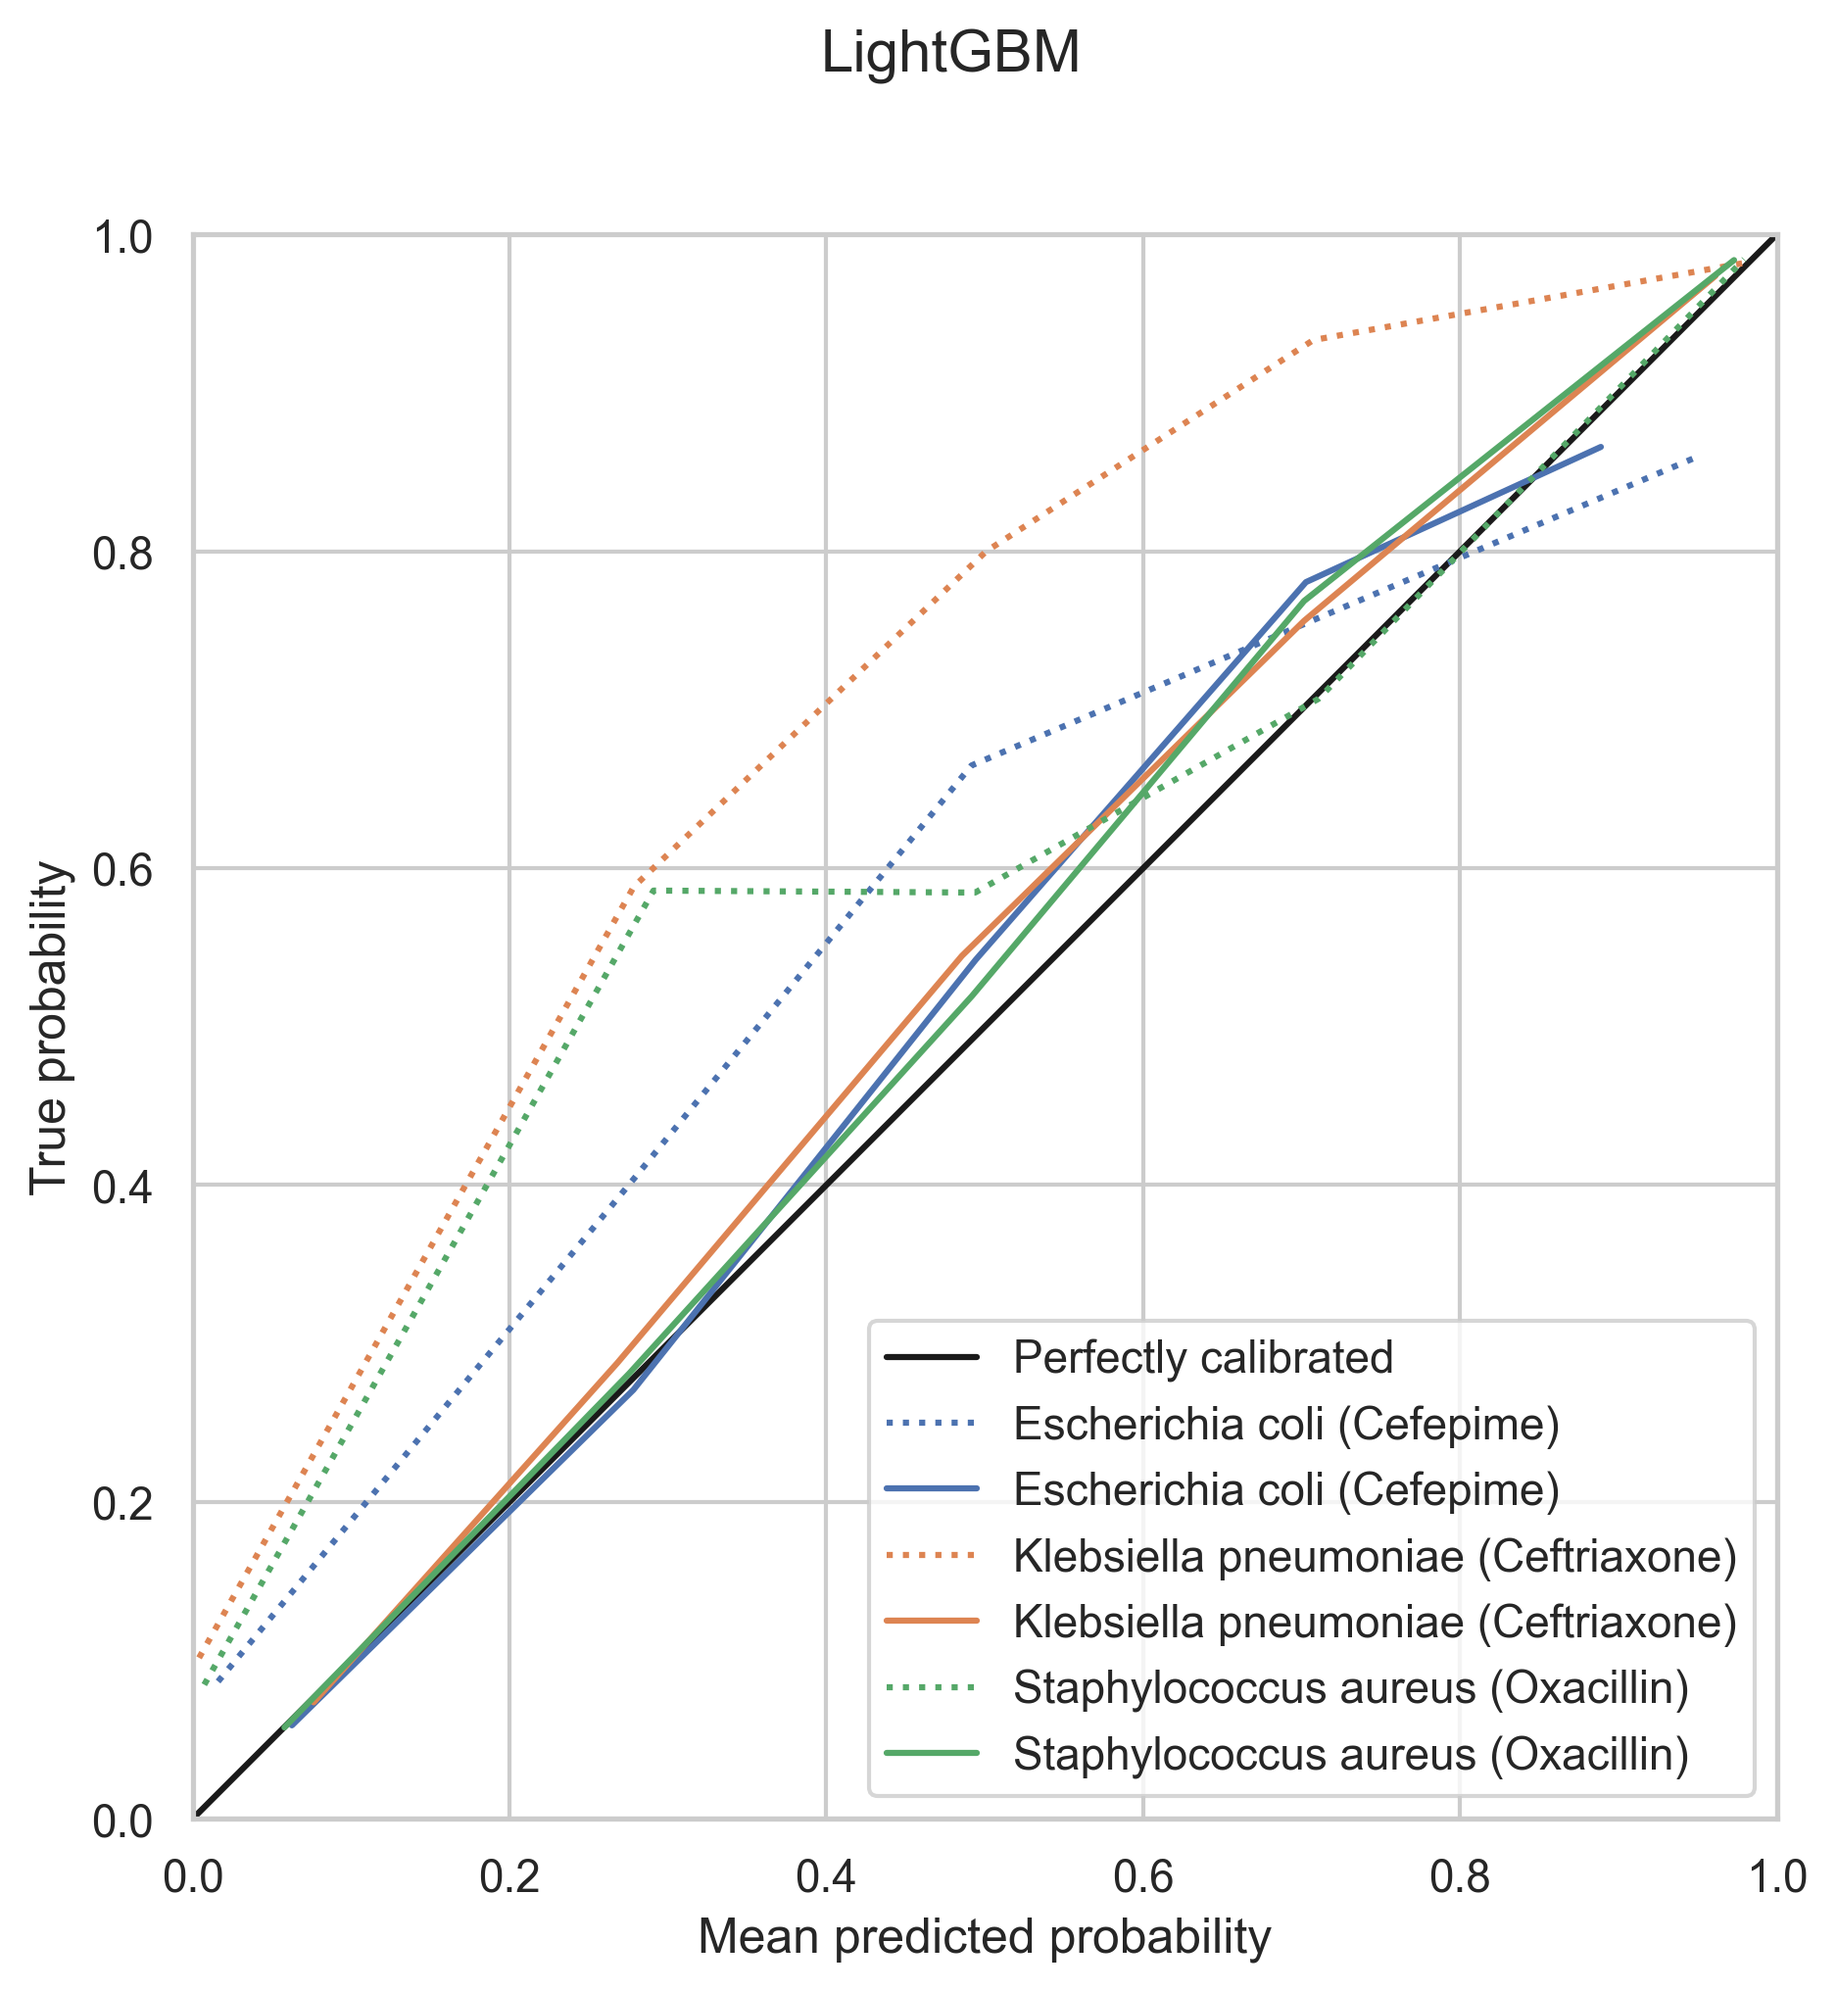
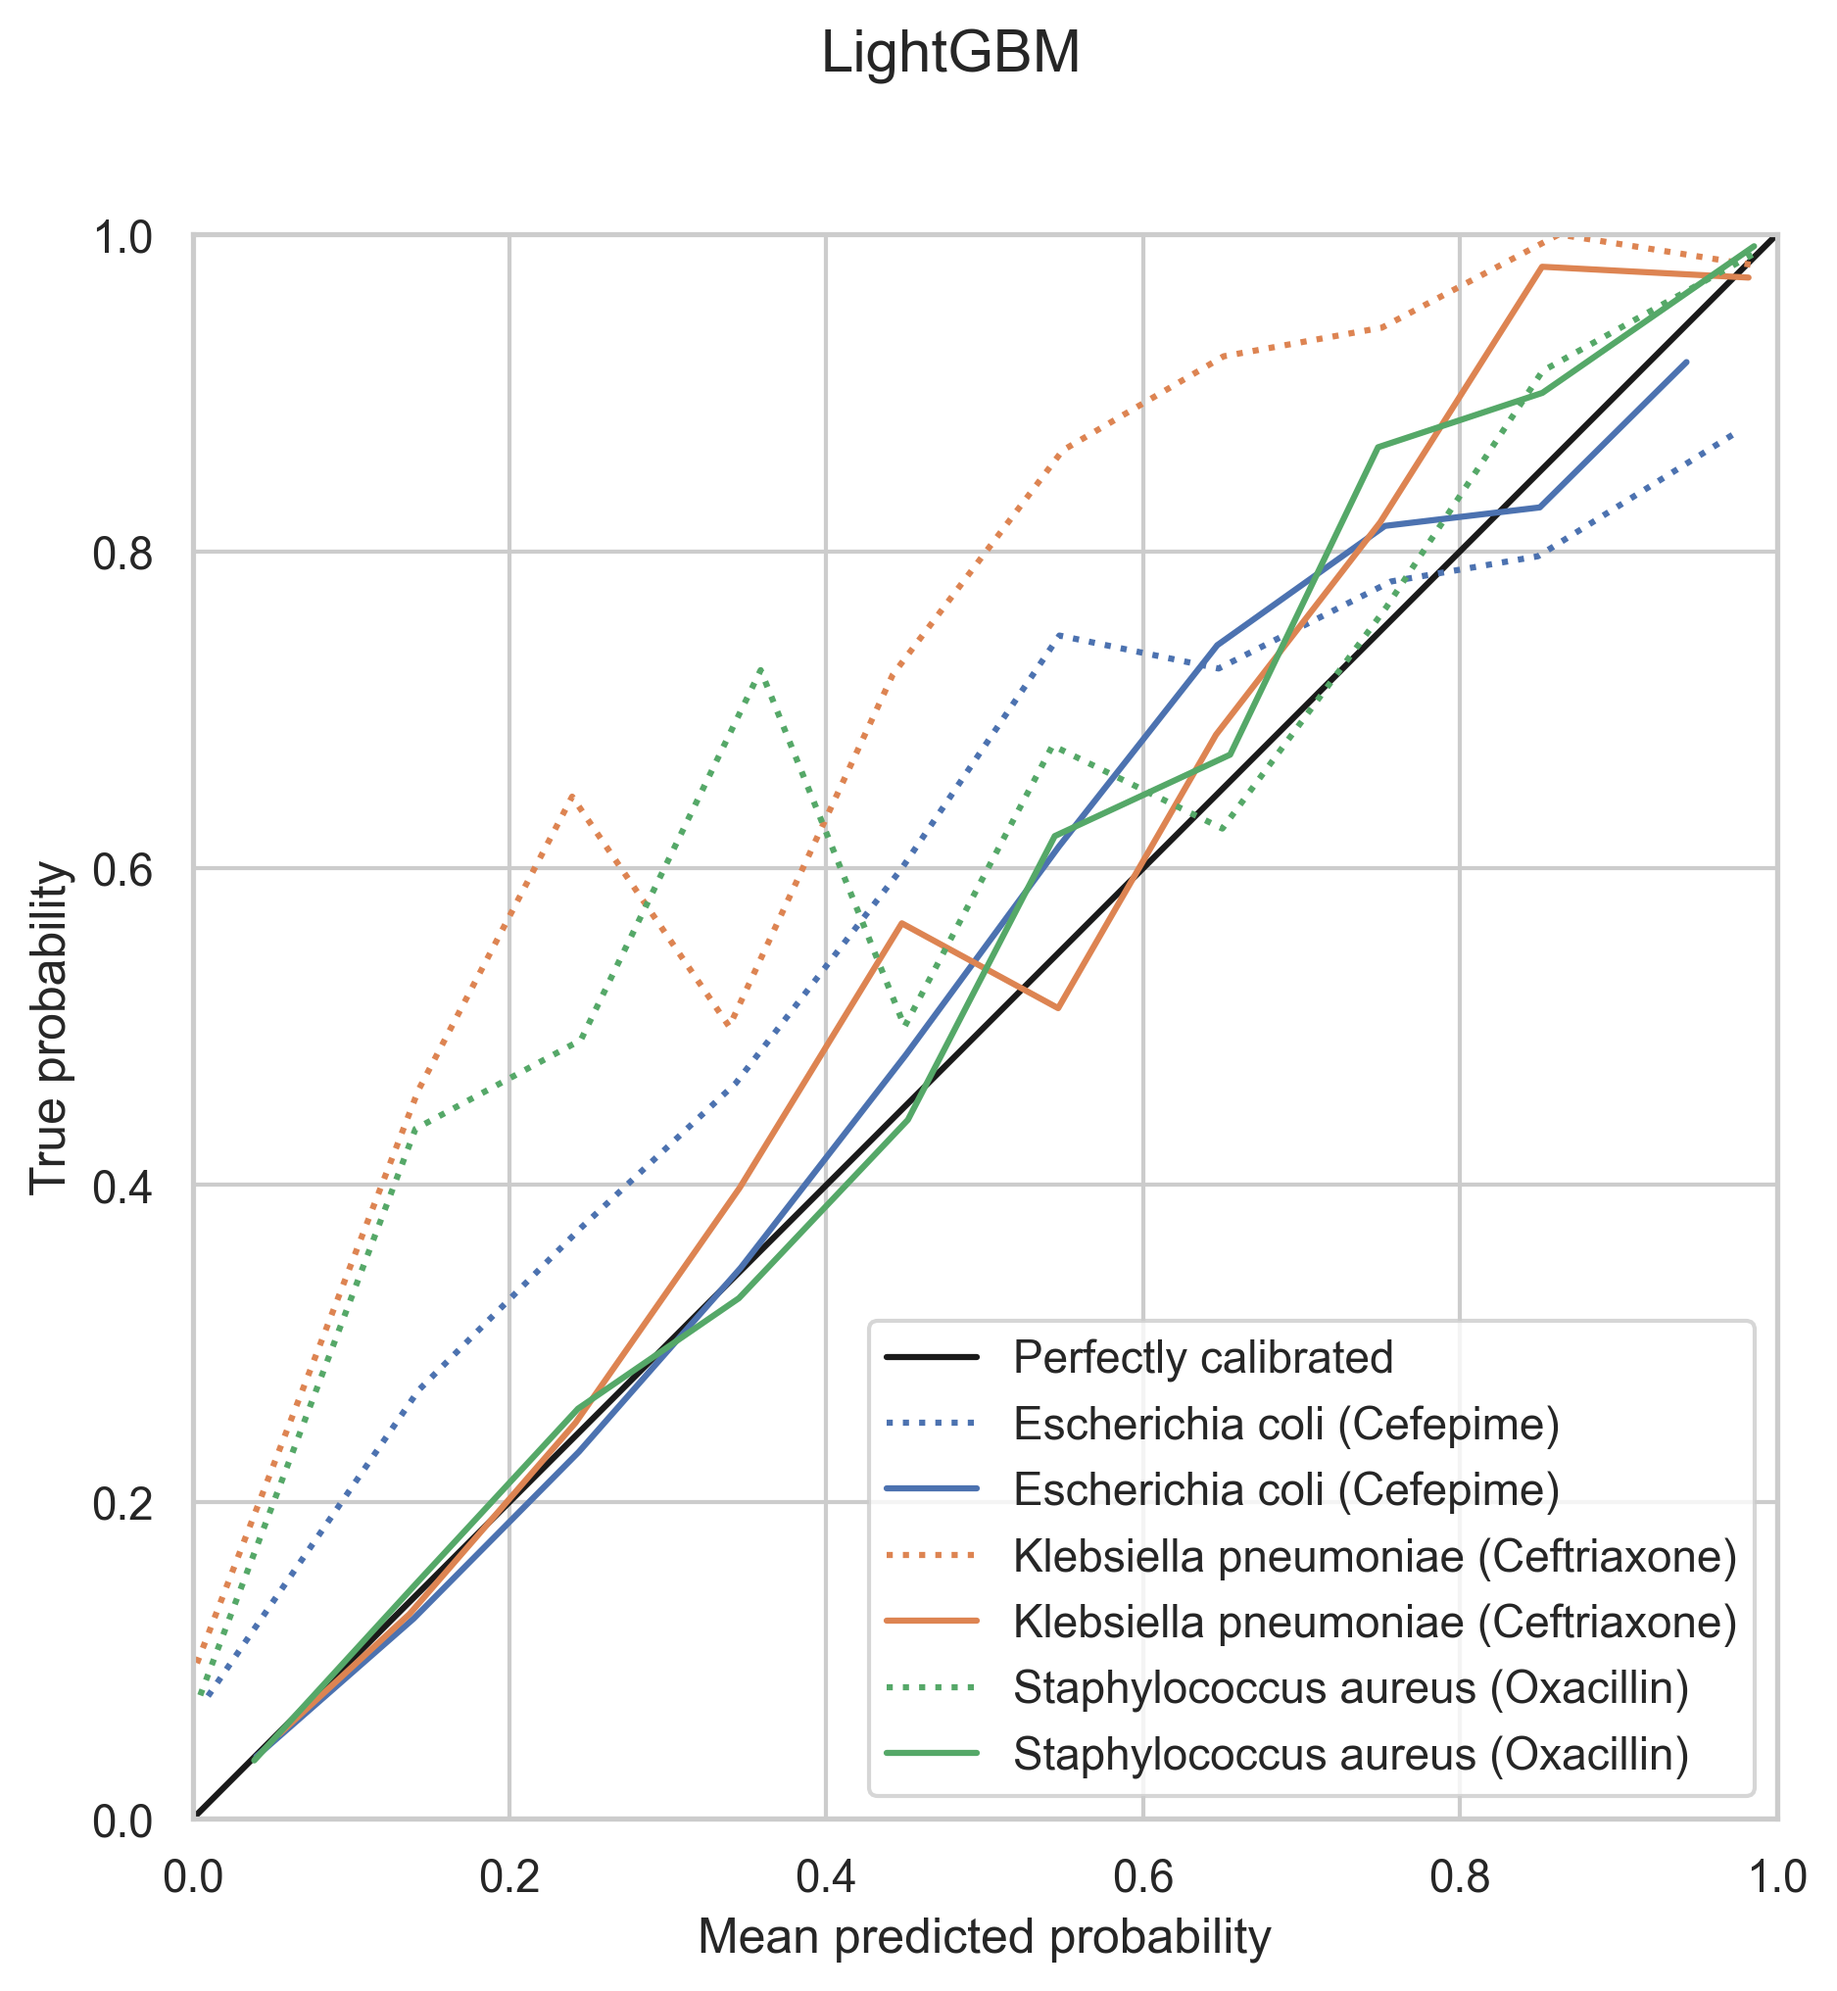
calibration histograms and adjusted stepsize for calibration plot

diff --git a/amr_maldi_ml/plot_calibration_curves.py b/amr_maldi_ml/plot_calibration_curves.py
@@ -56,6 +56,89 @@ def _add_or_compare(metadata):
         assert metadata_versions == metadata
 
 
+def plot_calibration_histogram(df, outdir):
+    """Plot calibration histogram based on data frame.
+
+    This function is performing the main work for a single data frame.
+    It will automatically collect the relevant curves and prepare a plot
+    according to the data.
+
+    Parameters
+    ----------
+    df : `pandas.DataFrame`
+        TBD
+
+    Returns
+    -------
+    Nothing. As a side-effect of calling this function, plots will be
+    generated.
+    """
+    # Will store the individual curves for subsequent plotting. Every
+    # curve is indexed by a classifier and by its type (if a model is
+    # calibrated or not).
+    hists = {}
+
+    # The way the data are handed over to this function, there is only
+    # a single model.
+    model = df.model.unique()[0]
+
+    for (species, antibiotic), df_ in df.groupby(['species', 'antibiotic']):
+        y_test = np.vstack(df_['y_test']).ravel()
+        y_score = np.vstack(df_['y_score'])
+        y_score_calibrated = np.vstack(df_['y_score_calibrated'])
+        
+        y_score_max = np.amax(y_score, axis=1)
+        y_score_calibrated_max = np.amax(y_score_calibrated, axis=1)
+        
+        hists[(species, antibiotic, 'raw')] = y_score_max
+        hists[(species, antibiotic, 'calibrated')] = y_score_calibrated_max
+
+    sns.set(style='whitegrid')
+
+    fig, ax = plt.subplots(figsize=(9,7), dpi=300)
+    fig.suptitle(f'{model_to_name[model]}')
+
+    palette = sns.color_palette()
+
+    supported_species = [
+        'Escherichia coli',
+        'Klebsiella pneumoniae',
+        'Staphylococcus aureus',
+        'Staphylococcus epidermidis'
+    ]
+
+    species_to_colour = {
+        species: palette[i] for i, species in enumerate(supported_species)
+    }
+
+    for (species, antibiotic, hist_type), hist in hists.items():
+
+        colour = species_to_colour[species]
+
+        ax.hist(
+            hist,
+            color=colour,
+            range=(0.5, 1), 
+            bins=40, 
+            histtype="step",
+            linestyle='dotted' if hist_type == 'raw' else 'solid',
+            label=f'{species} ({antibiotic})' if hist_type == 'raw' \
+                  else f'{species} ({antibiotic}) {hist_type}',
+        )
+
+    ax.set_xlabel('Mean predicted probability')
+    ax.set_ylabel('Count')
+    ax.set_xlim((0.5, 1))
+    ax.legend(loc='upper left')
+
+    filename = f'Calibration_histogram_{model}.png'
+
+    plt.savefig(
+        os.path.join(outdir, filename),
+        bbox_inches='tight'
+    )
+
+
 def make_calibration_curve(y_true, y_score):
     """Create calibration curve from scores.
 
@@ -77,7 +160,7 @@ def make_calibration_curve(y_true, y_score):
 
     prob_true, prob_pred = calibration_curve(y_true,
                                              y_score[:, minority_class],
-                                             n_bins=5)
+                                             n_bins=10)
 
     # Note the change in inputs here; it is customary to show the
     # predicted probabilities on the x axis.
@@ -463,4 +546,5 @@ if __name__ == '__main__':
         df = pd.DataFrame.from_records(rows)
 
         plot_calibration_curves(df, args.outdir)
+        plot_calibration_histogram(df, args.outdir)
         plot_rejection_curves(df, args.metric, args.outdir)
